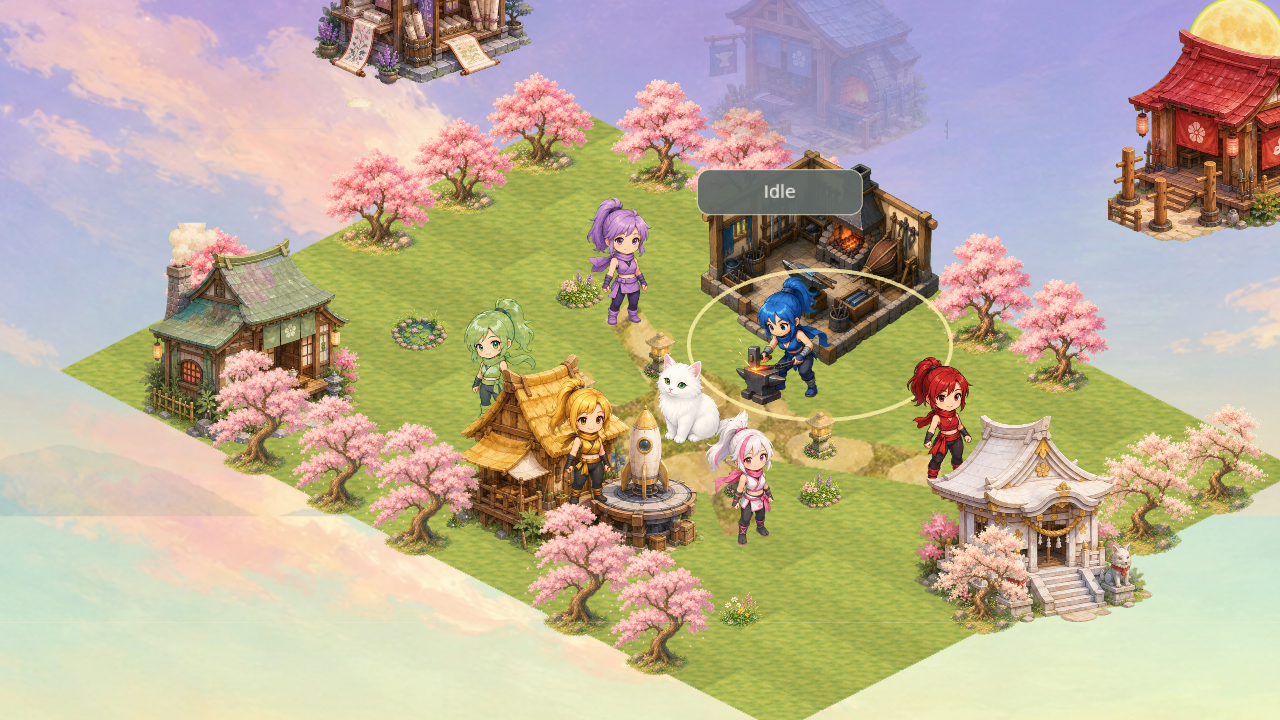
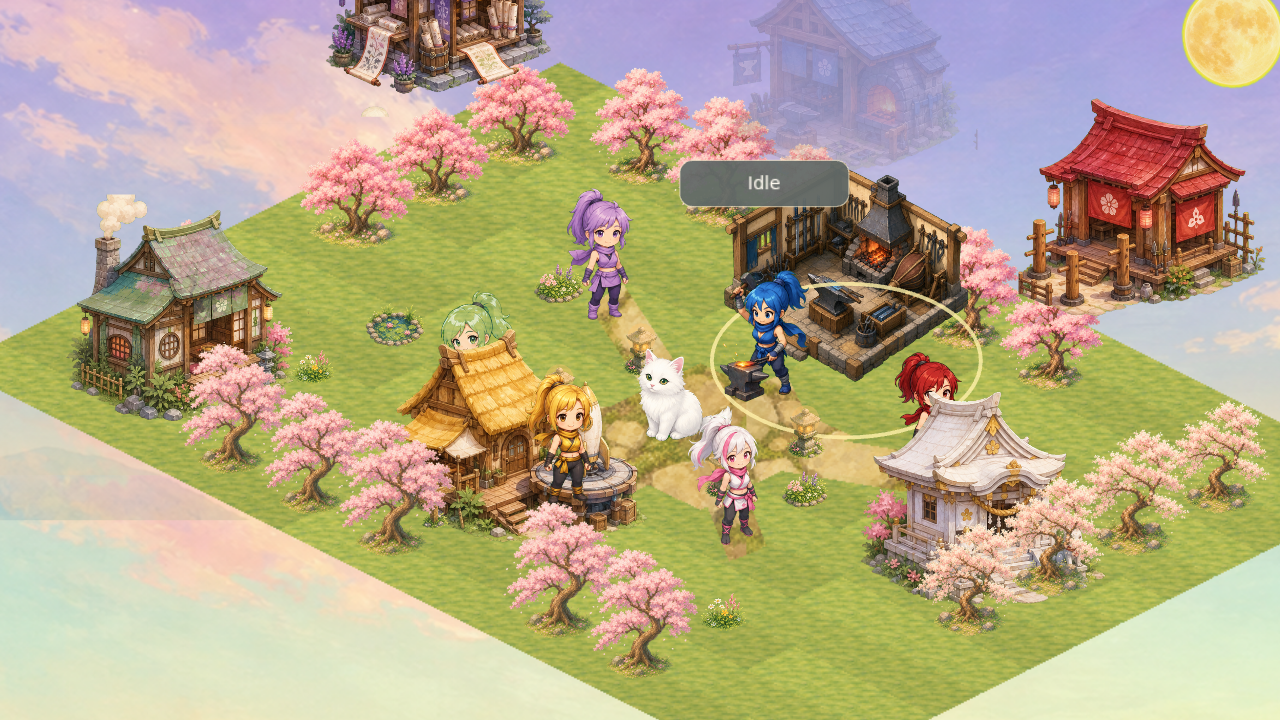
fix(village): tighten map placement and ambient kunoichi life

diff --git a/public/js/village/data/village-layout.js b/public/js/village/data/village-layout.js
@@ -3,23 +3,23 @@ export const ORIGIN = { x: 640, y: 168 };
 export const GRID = { width: 18, height: 13 };
 
 export const BUILDINGS = [
-  { id: "moji", label: "Scroll Hut", frame: { x: 0, y: 0, w: 512, h: 512 }, tile: { x: 4, y: 2 }, scale: 0.38 },
-  { id: "miji", label: "Forge", frame: { x: 512, y: 0, w: 512, h: 512 }, tile: { x: 8, y: 2 }, scale: 0.4 },
-  { id: "maji", label: "Training Dojo", frame: { x: 1024, y: 0, w: 512, h: 512 }, tile: { x: 12, y: 2 }, scale: 0.4 },
-  { id: "meji", label: "Tea House", frame: { x: 0, y: 512, w: 512, h: 512 }, tile: { x: 5, y: 7 }, scale: 0.39 },
-  { id: "muji", label: "Launch Pad", frame: { x: 512, y: 512, w: 512, h: 512 }, tile: { x: 9, y: 9 }, scale: 0.4 },
-  { id: "meowts", label: "Shrine", frame: { x: 1024, y: 512, w: 512, h: 512 }, tile: { x: 13, y: 8 }, scale: 0.4 }
+  { id: "moji", label: "Scroll Hut", frame: { x: 0, y: 0, w: 512, h: 512 }, tile: { x: 5, y: 2 }, scale: 0.38 },
+  { id: "miji", label: "Forge", frame: { x: 512, y: 0, w: 512, h: 512 }, tile: { x: 9, y: 2 }, scale: 0.4 },
+  { id: "maji", label: "Training Dojo", frame: { x: 1024, y: 0, w: 512, h: 512 }, tile: { x: 13, y: 5 }, scale: 0.4 },
+  { id: "meji", label: "Tea House", frame: { x: 0, y: 512, w: 512, h: 512 }, tile: { x: 4, y: 7 }, scale: 0.39 },
+  { id: "muji", label: "Launch Pad", frame: { x: 512, y: 512, w: 512, h: 512 }, tile: { x: 8, y: 9 }, scale: 0.4 },
+  { id: "meowts", label: "Shrine", frame: { x: 1024, y: 512, w: 512, h: 512 }, tile: { x: 12, y: 8 }, scale: 0.4 }
 ];
 
 export const PLAZA = { x: 9, y: 6 };
 
 export const BLOCKED = new Set([
-  "3,1", "4,1", "5,1", "3,2", "4,2", "5,2",
-  "7,1", "8,1", "9,1", "7,2", "8,2", "9,2",
-  "11,1", "12,1", "13,1", "11,2", "12,2", "13,2",
-  "4,6", "5,6", "6,6", "4,7", "5,7", "6,7",
-  "8,8", "9,8", "10,8", "8,9", "9,9", "10,9",
-  "12,7", "13,7", "14,7", "12,8", "13,8", "14,8"
+  "4,1", "5,1", "6,1", "4,2", "5,2", "6,2",
+  "8,1", "9,1", "10,1", "8,2", "9,2", "10,2",
+  "12,4", "13,4", "14,4", "12,5", "13,5", "14,5",
+  "3,6", "4,6", "5,6", "3,7", "4,7", "5,7",
+  "7,8", "8,8", "9,8", "7,9", "8,9", "9,9",
+  "11,7", "12,7", "13,7", "11,8", "12,8", "13,8"
 ]);
 
 export const PATHS = [

diff --git a/public/js/village/scenes/VillageScene.js b/public/js/village/scenes/VillageScene.js
@@ -30,6 +30,7 @@ export class VillageScene extends Phaser.Scene {
     this.createInteriorControls();
     this.bridge = new EventBridge(this);
     this.bridge.connect();
+    this.startKunoichiAmbientLoop();
     this.startTycheLoop();
   }
 
@@ -46,7 +47,7 @@ export class VillageScene extends Phaser.Scene {
     this.add.image(118, 92, "moon_eternal").setDisplaySize(110, 110).setDepth(-90).setAlpha(0.92);
     this.add.image(1166, 98, "moon_earned").setDisplaySize(96, 96).setDepth(-90).setAlpha(0.9);
 
-    this.add.image(640, 360, "ground_map").setDepth(-80);
+    this.add.image(640, 360, "ground_map").setScale(1.14).setDepth(-80);
 
     for (let i = 0; i < 18; i += 1) this.drawTree(i);
     for (const tile of [{ x: 7, y: 5 }, { x: 11, y: 5 }, { x: 7, y: 7 }, { x: 11, y: 7 }]) this.drawLantern(tile);
@@ -410,6 +411,26 @@ export class VillageScene extends Phaser.Scene {
     };
     this.time.addEvent({ delay: 5200, loop: true, callback: () => this.tyche.wander() });
     schedule();
+  }
+
+  startKunoichiAmbientLoop() {
+    const actions = [
+      { name: "wave", duration: 2200 },
+      { name: "yawn", duration: 2400 },
+      { name: "sit", duration: 2600 }
+    ];
+    this.time.addEvent({
+      delay: 6200,
+      loop: true,
+      callback: () => {
+        if (this.activeInterior) return;
+        const idle = [...this.kunoichi.values()].filter((entity) => entity.state === "idle");
+        if (!idle.length) return;
+        const entity = Phaser.Utils.Array.GetRandom(idle);
+        const action = Phaser.Utils.Array.GetRandom(actions);
+        entity.ambient(action.name, action.duration);
+      }
+    });
   }
 
   receiptGlow(target) {

diff --git a/public/js/village/entities/Kunoichi.js b/public/js/village/entities/Kunoichi.js
@@ -158,6 +158,19 @@ export class Kunoichi {
     });
   }
 
+  ambient(action, durationMs = 2200) {
+    if (this.state !== "idle") return false;
+    this.state = "ambient";
+    this.play(action);
+    this.scene.time.delayedCall(durationMs, () => {
+      if (this.state === "ambient") {
+        this.state = "idle";
+        this.play("idle");
+      }
+    });
+    return true;
+  }
+
   syncFollowers() {
     this.sprite.setDepth(this.sprite.y + 80);
   }